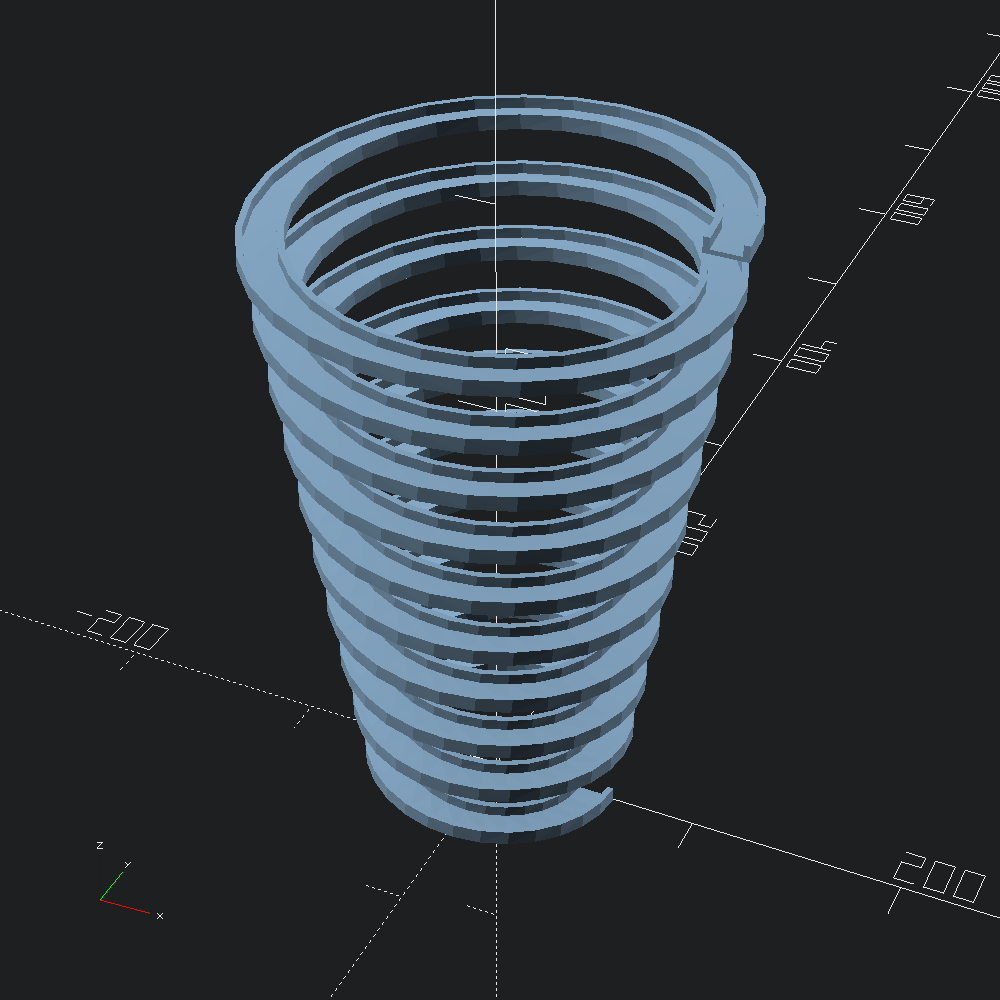
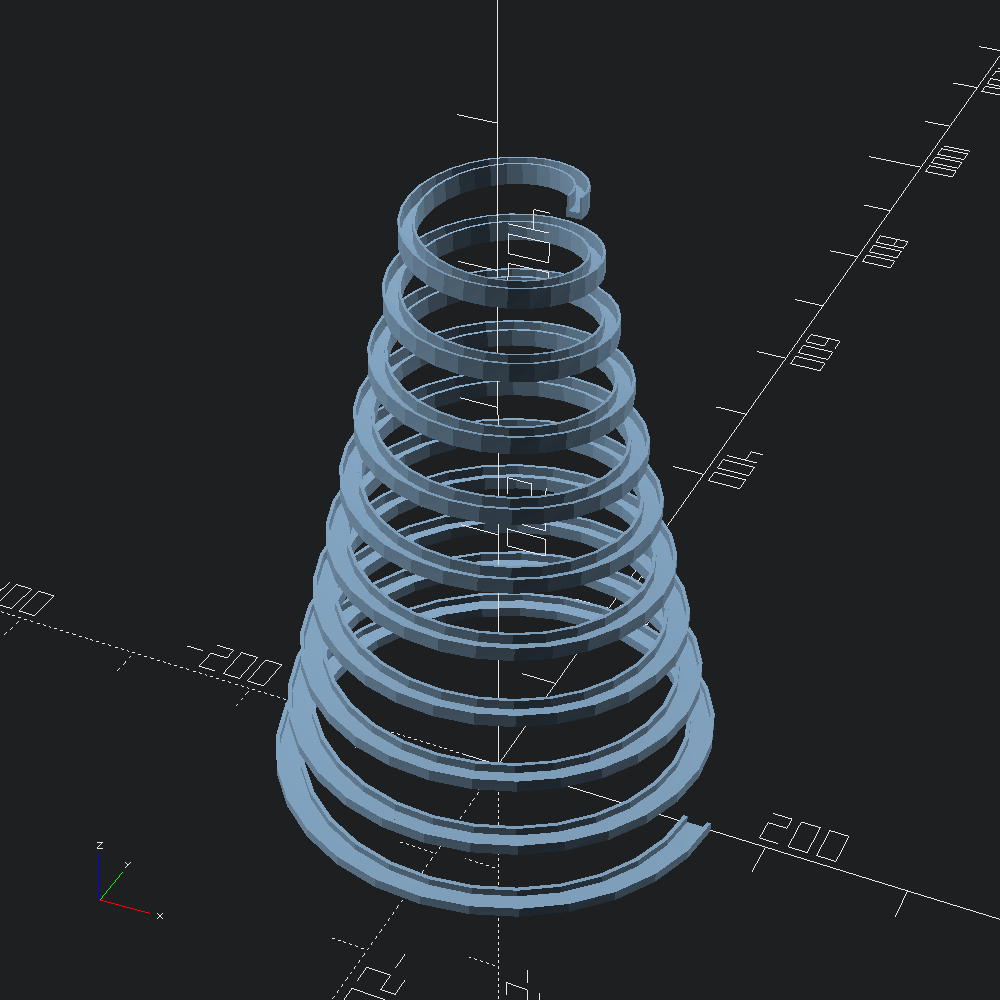
deploy: 3428853a3f5f52f7cd5f03b9deef3591c5afe8ff

diff --git a/scad_ml/helices.html b/scad_ml/helices.html
@@ -1,24 +1,23 @@
 <!DOCTYPE html>
-<html xmlns="http://www.w3.org/1999/xhtml"><head><title>helices (scad_ml.helices)</title><link rel="stylesheet" href="../odoc.css"/><meta charset="utf-8"/><meta name="generator" content="odoc 2.1.1"/><meta name="viewport" content="width=device-width,initial-scale=1.0"/><script src="../highlight.pack.js"></script><script>hljs.initHighlightingOnLoad();</script></head><body class="odoc"><nav class="odoc-nav"><a href="index.html">Up</a> – <a href="index.html">scad_ml</a> &#x00BB; helices</nav><header class="odoc-preamble"><h1 id="helical-paths-and-extrusions"><a href="#helical-paths-and-extrusions" class="anchor"></a>Helical paths and extrusions</h1><pre><code>open Scad_ml
-
-let () =
-  let scad =
-    let pts = Path3.helix ~left:false ~pitch:5. ~n_turns:10 ~r2:10. 5. in
-    let s = Scad.color Color.Red @@ Scad.sphere 1. in
-    Scad.union @@ List.map (fun p -&gt; Scad.translate p s) pts
-  in
-  Scad.to_file &quot;helix_path_points.scad&quot; scad</code></pre>
+<html xmlns="http://www.w3.org/1999/xhtml"><head><title>helices (scad_ml.helices)</title><link rel="stylesheet" href="../odoc.css"/><meta charset="utf-8"/><meta name="generator" content="odoc 2.1.1"/><meta name="viewport" content="width=device-width,initial-scale=1.0"/><script src="../highlight.pack.js"></script><script>hljs.initHighlightingOnLoad();</script></head><body class="odoc"><nav class="odoc-nav"><a href="index.html">Up</a> – <a href="index.html">scad_ml</a> &#x00BB; helices</nav><header class="odoc-preamble"><h1 id="helical-paths-and-extrusions"><a href="#helical-paths-and-extrusions" class="anchor"></a>Helical paths and extrusions</h1><pre><code>open Scad_ml</code></pre><p>Draw a right-handed helical path with <code>10</code> turns, starting with a radius of <code>5.</code>, and ending with a radius of <code>10.</code>. With a <code>pitch</code> of <code>5.</code>, it stands <code>10. *. 5. = 50.</code> units tall.</p><pre><code>let () =
+  Path3.helix ~left:false ~pitch:5. ~n_turns:10 ~r2:10. 5.
+  |&gt; Path3.show_points (fun _ -&gt; Scad.color Color.Red @@ Scad.sphere ~fn:36 0.7)
+  |&gt; Scad.to_file &quot;helix_path_points.scad&quot;</code></pre>
 <p style="text-align:center;">
 <img src="../assets/helix_path_points.png" style="width:150mm;"/>
-</p> <pre><code>let poly =
+</p> <p>We'll use a simple elbow shape for our sweeps so that its orientation is easily discernible along the path.</p><pre><code>let poly =
   [ -10., -1.; -10., 6.; -7., 6.; -7., 1.; 7., 1.; 7., 6.; 10., 6.; 10., -1. ]
   |&gt; Path2.of_tups
   |&gt; Poly2.make
 
-let mesh =
-  Mesh.helix_extrude ~scale:(v2 1. 1.) ~left:true ~pitch:30. ~n_turns:10 ~r2:100. 50. poly
-
-let () = Scad.to_file &quot;helix_extrude.scad&quot; (Mesh.to_scad mesh)</code></pre>
+let () = Scad.to_file &quot;elbow.scad&quot; (Scad.linear_extrude ~height:1. @@ Poly2.to_scad poly)</code></pre>
+<p style="text-align:center;">
+<img src="../assets/elbow.png" style="width:150mm;"/>
+</p> <p>Sweep our <code>poly</code> along a left-handed helix, while halving its width, and doubling its height. This time we'll start with a wider base radius and narrow towards the top.</p><pre><code>let () =
+  poly
+  |&gt; Mesh.helix_extrude ~scale:(v2 0.5 2.) ~left:true ~pitch:45. ~n_turns:10 ~r2:50. 150.
+  |&gt; Mesh.to_scad
+  |&gt; Scad.to_file &quot;helix_extrude.scad&quot;</code></pre>
 <p style="text-align:center;">
 <img src="../assets/helix_extrude.png" style="width:150mm;"/>
 </p> </header><div class="odoc-content"></div></body></html>

diff --git a/scad_ml/resampled_path.html b/scad_ml/resampled_path.html
@@ -2,9 +2,9 @@
 <html xmlns="http://www.w3.org/1999/xhtml"><head><title>resampled_path (scad_ml.resampled_path)</title><link rel="stylesheet" href="../odoc.css"/><meta charset="utf-8"/><meta name="generator" content="odoc 2.1.1"/><meta name="viewport" content="width=device-width,initial-scale=1.0"/><script src="../highlight.pack.js"></script><script>hljs.initHighlightingOnLoad();</script></head><body class="odoc"><nav class="odoc-nav"><a href="index.html">Up</a> – <a href="index.html">scad_ml</a> &#x00BB; resampled_path</nav><header class="odoc-preamble"><h1 id="path-resampling-and-scaling/twisting-sweeps"><a href="#path-resampling-and-scaling/twisting-sweeps" class="anchor"></a>Path resampling and scaling/twisting sweeps</h1><pre><code>open Scad_ml</code></pre><p>Oftentimes, we would just like to define our paths without colinear points, such that it only consists of corners. However, some applications call for more fine sampling, and in those times we can reach for <a href="Scad_ml/Path3/index.html#val-resample"><code>Path3.resample</code></a> or <a href="Scad_ml/Path3/index.html#val-subdivide"><code>Path3.subdivide</code></a>. For this example, the exact number of points isn't a concern, so we'll specify a new point spacing as our <code>~freq</code>.</p><pre><code>let path = [ v3 0. 0. 0.; v3 5. 5. 5.; v3 5. 5. 15. ]
 let resampled = Path3.subdivide ~freq:(`Spacing 0.5) path</code></pre><p>Lets visualize our original <code>path</code>, and the <code>resampled</code> points with <a href="Scad_ml/Path3/index.html#val-show_points"><code>Path3.show_points</code></a> to get a sense of how fine our <code>~freq</code> parameter has gotten us.</p><pre><code>let () =
   let old_marks =
-    let f _ = Scad.(color ~alpha:0.1 Color.Magenta @@ sphere 0.5) in
+    let f _ = Scad.(color ~alpha:0.2 Color.Magenta @@ sphere ~fn:36 0.4) in
     Path3.show_points f path
-  and new_marks = Path3.show_points (fun _ -&gt; Scad.sphere 0.2) resampled in
+  and new_marks = Path3.show_points (fun _ -&gt; Scad.sphere ~fn:36 0.2) resampled in
   Scad.to_file &quot;resampled_path.scad&quot; (Scad.union [ old_marks; new_marks ])</code></pre>
 <p style="text-align:center;">
 <img src="../assets/resampled_path.png" style="width:150mm;"/>

diff --git a/scad_ml/default_vs_euler_sweeps.html b/scad_ml/default_vs_euler_sweeps.html
@@ -1,5 +1,5 @@
 <!DOCTYPE html>
-<html xmlns="http://www.w3.org/1999/xhtml"><head><title>default_vs_euler_sweeps (scad_ml.default_vs_euler_sweeps)</title><link rel="stylesheet" href="../odoc.css"/><meta charset="utf-8"/><meta name="generator" content="odoc 2.1.1"/><meta name="viewport" content="width=device-width,initial-scale=1.0"/><script src="../highlight.pack.js"></script><script>hljs.initHighlightingOnLoad();</script></head><body class="odoc"><nav class="odoc-nav"><a href="index.html">Up</a> – <a href="index.html">scad_ml</a> &#x00BB; default_vs_euler_sweeps</nav><header class="odoc-preamble"><h1 id="path-transfomations-(default-vs-euler)"><a href="#path-transfomations-(default-vs-euler)" class="anchor"></a>Path transfomations (default vs euler)</h1><pre><code>open Scad_ml</code></pre><p>Elbow shape for easily discernible orientation</p><pre><code>let poly =
+<html xmlns="http://www.w3.org/1999/xhtml"><head><title>default_vs_euler_sweeps (scad_ml.default_vs_euler_sweeps)</title><link rel="stylesheet" href="../odoc.css"/><meta charset="utf-8"/><meta name="generator" content="odoc 2.1.1"/><meta name="viewport" content="width=device-width,initial-scale=1.0"/><script src="../highlight.pack.js"></script><script>hljs.initHighlightingOnLoad();</script></head><body class="odoc"><nav class="odoc-nav"><a href="index.html">Up</a> – <a href="index.html">scad_ml</a> &#x00BB; default_vs_euler_sweeps</nav><header class="odoc-preamble"><h1 id="path-transfomations-(default-vs-euler)"><a href="#path-transfomations-(default-vs-euler)" class="anchor"></a>Path transfomations (default vs euler)</h1><pre><code>open Scad_ml</code></pre><p>We'll use a simple elbow shape for our sweeps so that its orientation is easily discernible along the path.</p><pre><code>let poly =
   [ -10., -1.; -10., 6.; -7., 6.; -7., 1.; 7., 1.; 7., 6.; 10., 6.; 10., -1. ]
   |&gt; Path2.of_tups
   |&gt; Path2.scale (v2 0.7 0.7)
